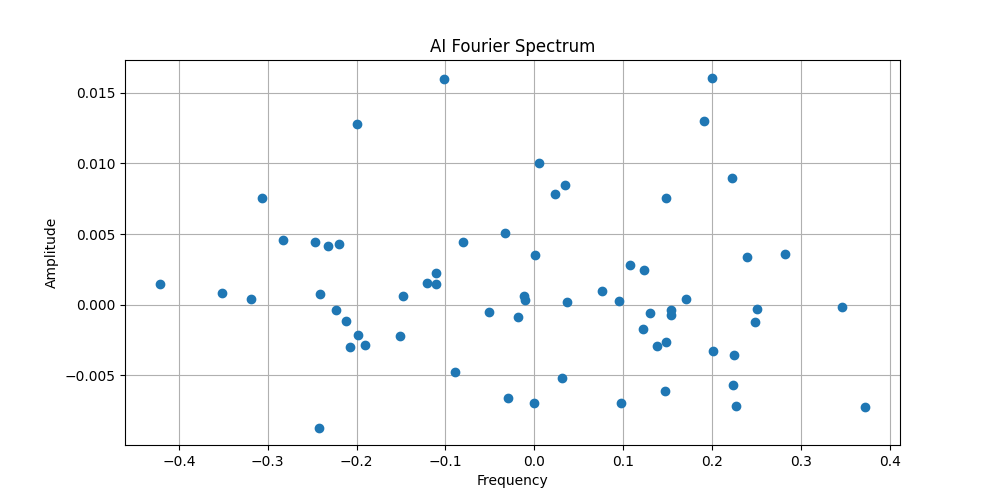
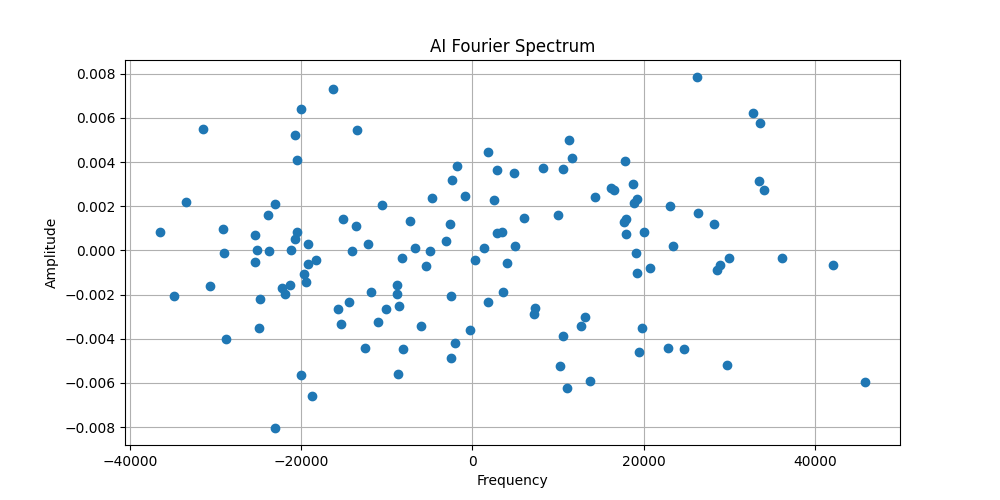
fixing bugs

diff --git a/examples/example.py b/examples/example.py
@@ -2,7 +2,7 @@ import aifourier as aif
 import matplotlib.pyplot as plt
 
 # analyze audio
-df = aif.analyze("examples/bird.mp3", max_modes=64, epochs=128)
+df = aif.analyze("examples/bird.mp3", max_modes=128, epochs=64)
 
 print(df.head())
 